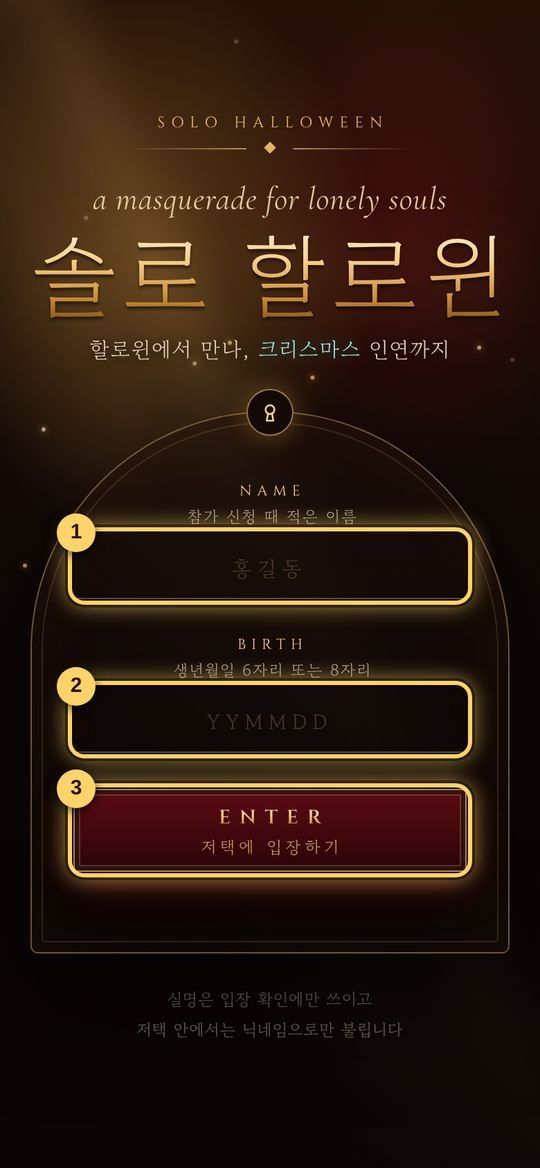
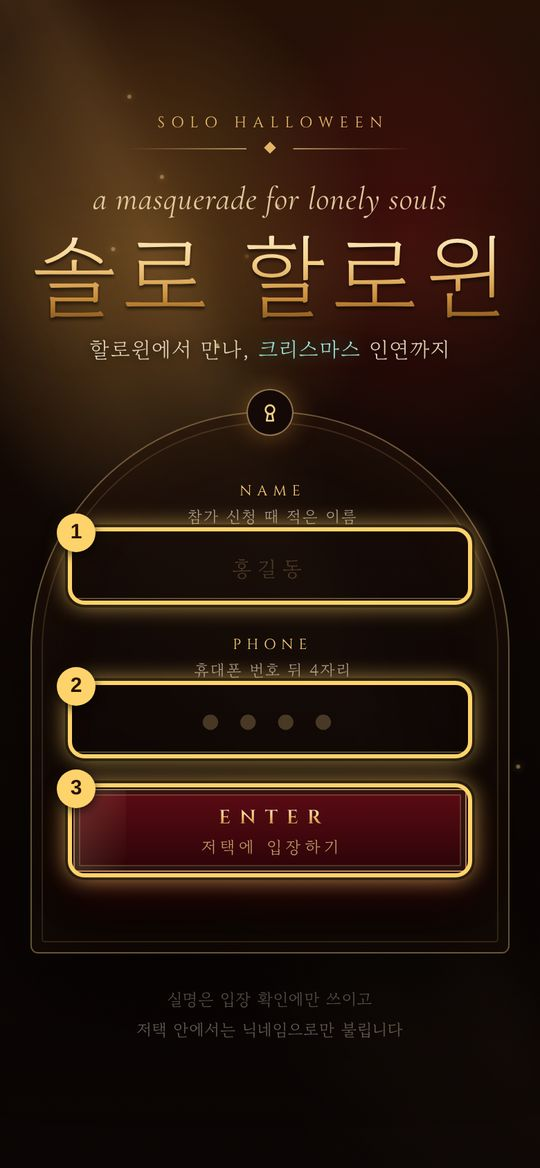
Log in with name + last 4 phone digits; add staff accounts
- Login field is now the last 4 digits of the phone (full number also
  accepted); hashes use a new salt
- Real roster (79 guests + 9 staff) lives in roster.js, loaded when
  present and git-ignored because this repository is public
- Staff accounts (password 9999) open the admin panel without the PIN,
  are marked in the directory and excluded from voting, matching, the
  Secret Room and tallies
- Name tags show the gender number from the sign-up sheet
- Roster builder accepts phone numbers and staff lines
- Docs and login screenshots updated

Claude-Session: https://claude.ai/code/session_01DiasJsvSXDKjZvfeQPBRQE

diff --git a/solo-halloween/index.html b/solo-halloween/index.html
@@ -633,8 +633,8 @@
     <span class="sigil"><svg viewBox="0 0 16 16"><circle cx="8" cy="6" r="3.2" fill="none" stroke="#f6d08a" stroke-width="1.3"/><path d="M6.6 8.6 5.6 14h4.8l-1-5.4" fill="none" stroke="#f6d08a" stroke-width="1.3" stroke-linejoin="round"/></svg></span>
     <label class="lf"><span>NAME<i>참가 신청 때 적은 이름</i></span>
       <input id="lgName" placeholder="홍길동" autocomplete="off" required></label>
-    <label class="lf"><span>BIRTH<i>생년월일 6자리 또는 8자리</i></span>
-      <input id="lgBirth" placeholder="YYMMDD" inputmode="numeric" maxlength="10" autocomplete="off" required></label>
+    <label class="lf"><span>PHONE<i>휴대폰 번호 뒤 4자리</i></span>
+      <input id="lgPin" placeholder="● ● ● ●" inputmode="numeric" maxlength="16" autocomplete="off" required></label>
     <button class="enter" type="submit" id="lgBtn"><b>ENTER</b><small>저택에 입장하기</small></button>
     <p class="err" id="lgErr" role="alert"></p>
   </form>
@@ -703,6 +703,7 @@
 <section id="board" hidden></section>
 <section id="admin" hidden><div class="wrap adm" id="admIn"></div></section>
 
+<script src="roster.js"></script>
 <script>
 /* ════════════════════════════════════════════════════════════
    설정 — 행사 전에 여기만 채우면 됩니다 (README 참고)
@@ -726,16 +727,19 @@ const CONFIG={
   LETTER_MAX:5,    // 박쥐편지: 1인당 보낼 수 있는 통수
   REVEAL_DELAY_MIN:30  // 운명의 실: '종료'를 누르고 몇 분 뒤에 결과 공개
 };
-/* 참가자 명단 — 실명·생년월일은 해시로만 저장됩니다.
-   관리자 화면 › "명단 만들기"에 "이름 생년월일 성별"을 붙여넣으면 이 배열이 생성됩니다. */
-const ROSTER=[
+/* 참가자 명단 — 실명·휴대폰 뒤 4자리는 해시로만 저장됩니다.
+   실제 명단은 같은 폴더의 roster.js(window.ROSTER_LOCAL)에 두고 깃에는 올리지 않습니다(공개 저장소).
+   roster.js가 없으면 아래 데모 계정이 쓰입니다. 관리자 › "명단 만들기"로 새 명단을 만들 수 있어요.
+   {id, g:'m'|'f', n:성별 번호, h:해시} · 운영진은 {id, staff:1, h} */
+const ROSTER=(window.ROSTER_LOCAL&&window.ROSTER_LOCAL.length)?window.ROSTER_LOCAL:[
   /*ROSTER_START*/
[13 lines of base64/hex data omitted]
   /*ROSTER_END*/
 ];
 
@@ -774,13 +778,9 @@ function sha256(ascii){
   return result;
 }
 const normName=s=>String(s||'').replace(/\s+/g,'').trim();
-function normBirth(s){
-  const d=String(s||'').replace(/\D/g,'');
-  if(d.length===8) return d;
-  if(d.length===6){ const yy=+d.slice(0,2); return (yy>=30?'19':'20')+d; }
-  return '';
-}
-const credHash=(name,birth)=>sha256('sh|'+normName(name)+'|'+normBirth(birth));
+// 휴대폰 번호 뒤 4자리. 전체 번호를 넣어도 뒤 4자리만 씀
+function normPin(s){ const d=String(s||'').replace(/\D/g,''); return d.length>=4?d.slice(-4):''; }
+const credHash=(name,pin)=>sha256('sh2|'+normName(name)+'|'+normPin(pin));
 
 /* ════════════════ 저장소 (Firebase REST ↔ 로컬) ════════════════ */
 const Store={
@@ -926,7 +926,9 @@ const nick=id=>prof(id).nick||'이름 없는 영혼';
 const avat=id=>prof(id).av||'🕯';
 const gOf=id=>(person(id)||{}).g;
 const phase=k=>(Store.get('state/'+k)||'wait');
-const souls=()=>roster().filter(p=>prof(p.id).nick);
+const isStaff=id=>!!(person(id)||{}).staff;
+// 참가자(운영진 제외) 중 입장해서 닉네임을 정한 사람
+const souls=()=>roster().filter(p=>!p.staff&&prof(p.id).nick);
 
 /* ════════════════ 부트 ════════════════ */
 (function boot(){
@@ -949,15 +951,15 @@ function route(){
 /* ════════════════ 로그인 ════════════════ */
 $('loginForm').addEventListener('submit',async e=>{
   e.preventDefault();
-  const n=$('lgName').value, b=$('lgBirth').value;
+  const n=$('lgName').value, b=$('lgPin').value;
   if(!normName(n)){ $('lgErr').textContent='이름을 적어주세요.'; return; }
-  if(!normBirth(b)){ $('lgErr').textContent='생년월일은 950315 또는 19950315처럼 숫자로 적어주세요.'; return; }
+  if(!normPin(b)){ $('lgErr').textContent='휴대폰 번호 뒤 4자리를 숫자로 적어주세요.'; return; }
   $('lgBtn').disabled=true; $('lgBtn').querySelector('small').textContent='명단을 확인하는 중…';
   await Store.pull();
   const h=credHash(n,b), p=roster().find(x=>x.h===h);
   $('lgBtn').disabled=false; $('lgBtn').querySelector('small').textContent='저택에 입장하기';
   if(!p){
-    $('lgErr').innerHTML='🎃 명단에 없는 영혼이에요… 이름과 생년월일을 다시 확인해 주세요.<br>계속 안 되면 입구의 운영진에게 말해주세요.';
+    $('lgErr').innerHTML='🎃 명단에 없는 영혼이에요… 이름과 휴대폰 번호 뒤 4자리를 다시 확인해 주세요.<br>계속 안 되면 입구의 운영진에게 말해주세요.';
     $('loginForm').animate([{transform:'translateX(-8px)'},{transform:'translateX(8px)'},{transform:'none'}],{duration:260,iterations:2});
     return;
   }
@@ -1288,7 +1290,7 @@ function checkInbox(first){
 /* ── 로비 ── */
 function renderHome(v){
   const p=prof(ME), mt=MONSTER[p.type];
-  const cs=candyTo(ME), L=lettersTo(ME), sentL=lettersFrom(ME), ps=chatPartners(), num=String(roster().findIndex(x=>x.id===ME)+1).padStart(2,'0');
+  const cs=candyTo(ME), L=lettersTo(ME), sentL=lettersFrom(ME), ps=chatPartners(), num=((person(ME)||{}).g==='f'?'W':'M')+String((person(ME)||{}).n||roster().findIndex(x=>x.id===ME)+1).padStart(2,'0');
   const notes=[], mp=mphase(), pend=cs.filter(id=>!candySent(ME,id));
   const ss=sstate(), sp=secretPartner();
   if(ss.ph==='result'&&sp) notes.push(['🚪','비밀의 방 · '+secretNo()+'번 커플',''+esc(nick(sp))+'님과 '+secretNo()+'번 자리로 · 안쪽부터 1번','secret']);
@@ -1303,7 +1305,7 @@ function renderHome(v){
     clockHTML()+themeHTML()+
     guide('jack',greet())+
     notes.map(n=>'<div class="notice" data-go="'+n[3]+'"><span class="ic">'+n[0]+'</span><div><b>'+n[1]+'</b><span>'+n[2]+'</span></div></div>').join('')+
-    '<div class="tag"><span class="hole">No.'+num+'</span><div class="lab">Soul Name Tag</div>'+
+    '<div class="tag"><span class="hole">'+(isStaff(ME)?'🛠 STAFF':'No.'+num)+'</span><div class="lab">Soul Name Tag</div>'+
       '<div class="row"><div class="big">'+esc(avat(ME))+'</div><div style="min-width:0"><div class="nk">'+esc(nick(ME))+'</div><div class="cs">'+(p.cos?'🎭 '+esc(p.cos):'코스튬 한 줄을 적어보세요')+'</div></div></div>'+
       '<div class="badges">'+(mt?'<span class="pill red">'+mt.e+' '+mt.n+'</span>':'<span class="pill" data-go-room="quiz" style="cursor:pointer">❔ 몬스터 유형 미정 · 테스트하기</span>')+
       (p.insta?'<span class="pill teal">📷 @'+esc(p.insta)+'</span>':'<span class="pill red" id="noIg" style="cursor:pointer">📷 인스타 미등록 · 편지 교환용</span>')+'</div>'+
@@ -1357,10 +1359,10 @@ $('tpill').onclick=()=>go('home');
 /* ── 영혼 도감 ── */
 let soulFilter='all', soulQ='';
 function renderSouls(v){
-  const all=roster(), m=all.filter(p=>p.g==='m').length, f=all.length-m, inM=souls().filter(p=>p.g==='m').length, inF=souls().length-inM;
-  const list=all.filter(p=>soulFilter==='all'||p.g===soulFilter)
+  const all=roster().filter(p=>!p.staff), m=all.filter(p=>p.g==='m').length, f=all.length-m, inM=souls().filter(p=>p.g==='m').length, inF=souls().length-inM;
+  const list=roster().filter(p=>soulFilter==='all'||p.g===soulFilter)
     .filter(p=>!soulQ||nick(p.id).toLowerCase().includes(soulQ.toLowerCase())||(prof(p.id).cos||'').includes(soulQ))
-    .sort((a,b)=>(!!prof(b.id).nick)-(!!prof(a.id).nick)||(prof(b.id).at||0)-(prof(a.id).at||0));
+    .sort((a,b)=>(!!a.staff)-(!!b.staff)||(!!prof(b.id).nick)-(!!prof(a.id).nick)||(prof(b.id).at||0)-(prof(a.id).at||0));
   const sentC=candyFrom(ME), sentL=lettersFrom(ME);
   v.innerHTML=head('Halloween','영혼 도감','Who\'s Here')+
     guide('pipi','카드를 누르면 배달해줄게! <b>🍬 사탕</b>은 네 닉네임이 보이고, <b>🦇 편지</b>는 익명이지만 서로의 인스타가 공유돼. 남은 사탕 <b>'+Math.max(0,candyLeft())+'</b>개, 편지 <b>'+(CONFIG.LETTER_MAX-sentL.length)+'</b>통!')+
@@ -1371,7 +1373,7 @@ function renderSouls(v){
     '<div class="grid">'+list.map((p,i)=>{
       const pr=prof(p.id), on=!!pr.nick, mt=MONSTER[pr.type];
       return '<button class="soul'+(p.id===ME?' me':'')+(on?'':' ghosty')+'" data-id="'+p.id+'" style="animation-delay:'+Math.min(i*30,400)+'ms" '+(on?'':'disabled')+'>'+
-        '<i class="sx" style="background:'+(p.g==='m'?'#e0483f':'var(--teal)')+'"></i>'+
+        (p.staff?'<span class="mk" style="left:8px;right:auto">🛠</span>':'<i class="sx" style="background:'+(p.g==='m'?'#e0483f':'var(--teal)')+'"></i>')+
         (p.id!==ME&&chatOpen(p.id)?'<span class="mk">💬</span>':sentC.includes(p.id)?'<span class="mk">🍬</span>':candySent(p.id,ME)?'<span class="mk">🎁</span>':'')+
         '<div class="e">'+(on?esc(pr.av||'🎃'):'🕯')+'</div><div class="n">'+(on?esc(pr.nick):'아직 오는 중…')+'</div>'+
         '<div class="c">'+(on?(pr.cos?esc(pr.cos):(mt?mt.e+' '+mt.n:'&nbsp;')):'&nbsp;')+'</div></button>';
@@ -1391,7 +1393,7 @@ function openSoul(id){
   else candyBtn='<button class="btn gold" id="sCandy" '+(left<=0?'disabled':'')+'>🍬 사탕 건네기 · '+Math.max(0,left)+'개 남음</button><p class="muted" style="text-align:center;font-size:12px">사탕엔 내 닉네임이 적혀 가요. 상대가 돌려주면 밀담방이 열려요.</p>';
   openSheet('<div class="prof-top"><div class="e">'+esc(p.av||'🎃')+'</div><div class="n">'+esc(p.nick)+'</div><div class="c">'+(p.cos?'🎭 '+esc(p.cos):'')+'</div>'+
     (mt?'<p style="margin:10px 0 0"><span class="pill red">'+mt.e+' '+mt.n+'</span></p><p class="muted" style="margin-top:6px;font-size:12.5px">'+mt.d+'</p>':'')+'</div>'+
-    (mine?'<p class="muted" style="text-align:center;margin-top:14px">나야 나! 🎃</p>':
+    (mine?'<p class="muted" style="text-align:center;margin-top:14px">나야 나! 🎃</p>':(isStaff(id)||isStaff(ME))?'<p class="muted" style="text-align:center;margin-top:14px">'+(isStaff(id)?'🛠 저택 운영진이에요. 궁금한 건 언제든 물어보세요!':'🛠 운영진 계정은 사탕 · 편지 · 지목에 참여하지 않아요.')+'</p>':
     '<div class="acts">'+candyBtn+
       (sentL.includes(id)?'<p class="muted" style="text-align:center">🦇 편지를 보냈어요 · 상대의 인스타 '+instaLink(id)+'</p>':
         (sentL.length>=CONFIG.LETTER_MAX?'<p class="muted" style="text-align:center">편지를 모두 보냈어요</p>':
@@ -1455,6 +1457,7 @@ function paintChat(force){
 function myVote(){ const v=Store.get('votes/'+ME)||{}; return {m:v.m,f:v.f,done:!!(v.m&&v.f)}; }
 let voteG='m';
 function renderVote(v){
+  if(isStaff(ME)) return staffNote(v,'베스트 드레서','The Vampire Gift','lucian');
   const ph=phase('vote');
   let html=head('Halloween','베스트 드레서','The Vampire Gift');
   if(ph==='wait'){
@@ -1504,6 +1507,7 @@ function podium(list){
     return '<div class="pod '+cls+'">'+(cls==='p1'?'<span class="crown">👑</span>':'')+'<div class="e">'+esc(avat(x.id))+'</div><div class="n">'+esc(nick(x.id))+'</div><div class="blk">'+(cls==='p1'?1:cls==='p2'?2:3)+'</div><div class="votes">'+x.n+'표</div></div>'; }).join('')+'</div>';
 }
 
+function staffNote(v,kr,en,c){ v.innerHTML=head('Halloween',kr,en)+guide(c,'🛠 <b>운영진 계정</b>은 투표와 지목에 참여하지 않아요. 진행은 로고를 5번 눌러 <b>관리자 화면</b>에서 하세요. (운영진은 PIN 없이 열려요)'); mountGuides(v); }
 /* ── 운명의 실 (매칭) ──
    마음에 드는 이성 3명을 순위 없이 고름. 서로 고르면 매칭이고, 한 사람이 여러 명과 매칭될 수 있음.
    운영진이 '종료'를 누르면 REVEAL_DELAY_MIN분 뒤 자동 공개: 받은 표 수 + 매칭된 상대 */
@@ -1518,6 +1522,7 @@ function mphase(){ const st=phase('match'); if(st==='ended') return Date.now()>=
 const revealLeft=()=>Math.max(0,((Store.get('state/revealAt')||0)-Date.now())/1000);
 let revealing=false;
 function renderMatch(v){
+  if(isStaff(ME)) return staffNote(v,'운명의 실','Red String of Fate','boo');
   const ph=mphase();
   let html=head('Halloween','운명의 실','Red String of Fate');
   const rules='<div class="panel"><h3>🩸 이렇게 이어져요</h3><p class="muted">① 마음에 드는 이성을 <b>'+CONFIG.PICKS_MAX+'명</b>까지 고르세요. <b>순위는 없어요.</b><br>② <b>서로가 서로를 고르면</b> 매칭! 여러 명과 동시에 매칭될 수도 있어요.<br>③ 결과는 바로 나오지 않고 <b>파티 종료 '+CONFIG.REVEAL_DELAY_MIN+'분 뒤</b> 공개돼요.<br>④ 공개되면 <b>내가 받은 표 수</b>와 <b>매칭된 상대</b>를 볼 수 있어요.<br>⑤ 매칭된 상대와는 <b>💬 밀담방</b>이 열려요.</p></div>';
@@ -1971,7 +1976,7 @@ function secretTick(){
     if(st.ph!=='none'&&prev!==null){ try{ navigator.vibrate&&navigator.vibrate([250,120,250]); }catch(e){} }
     if(st.ph==='none'){ ov.hidden=true; stopSvid(); }
     else if(st.ph==='result'&&LS.get(K('sclose:'+st.S.id+':'+ME))){ ov.hidden=true; }
-    else if($('admin').hidden&&(prev!==null||st.ph!=='result')) openSecret();
+    else if($('admin').hidden&&!isStaff(ME)&&(prev!==null||st.ph!=='result')) openSecret();
     if(TAB==='home') renderTab();
   }
   if(!ov.hidden){
@@ -2103,6 +2108,7 @@ let brandTaps=0, brandT=0;
 $('brand').onclick=()=>{ brandTaps++; clearTimeout(brandT); brandT=setTimeout(()=>brandTaps=0,1500); if(brandTaps>=5){ brandTaps=0; openAdmin(); } };
 let admOK=false;
 function openAdmin(){
+  if(ME&&isStaff(ME)) admOK=true;   // 운영진 계정은 PIN 없이
   if(!admOK){ const pin=prompt('🔒 운영진 PIN'); if(pin!==CONFIG.ADMIN_PIN){ if(pin!=null) alert('PIN이 달라요'); return; } admOK=true; }
   $('admin').hidden=false; document.body.style.overflow='hidden'; renderAdmin();
   Store.listeners.push(admTick);
@@ -2136,7 +2142,7 @@ function renderAdmin(){
       '<div class="wheel-wrap"><span class="pin">🔻</span><canvas id="wheel" width="600" height="600"></canvas></div><button class="btn gold" id="spin">🎡 돌리기</button><p class="muted" id="wres" style="text-align:center;margin-top:8px"></p></div>'+
     '<div class="panel"><h3>🍷 테이블 나누기 <small>남녀 섞어서</small></h3><div class="row2"><input class="inp" id="tN" type="number" min="2" max="20" value="4"><button class="btn small" id="tGo">나누기</button></div><div id="tOut" style="margin-top:10px"></div></div>'+
     '<div class="panel"><h3>📸 인스타 태그 <small>태그 동의한 영혼</small></h3><textarea readonly id="tagList">'+esc(S.filter(p=>prof(p.id).tagok&&prof(p.id).insta).map(p=>'@'+prof(p.id).insta).join(' '))+'</textarea><div class="btnrow"><button class="btn ghost small" id="cpTag">@아이디 복사</button></div></div>'+
-    '<div class="panel"><h3>📜 명단 만들기</h3><p class="muted">한 줄에 한 명: <code>이름 생년월일 성별</code> (예: <code>홍길동 950315 남</code>)<br>실명·생년월일은 이 기기에서 해시로만 변환돼요.</p>'+
+    '<div class="panel"><h3>📜 명단 만들기</h3><p class="muted">한 줄에 한 명: <code>이름 휴대폰번호 성별</code> (예: <code>홍길동 010-1234-5678 남</code>, 뒤 4자리만 써도 돼요) · 운영진은 <code>이름 운영진</code> (비밀번호 9999)<br>실명·생년월일은 이 기기에서 해시로만 변환돼요.</p>'+
       '<textarea id="rIn" placeholder="홍길동 950315 남&#10;김영희 19970822 여"></textarea>'+
       '<div class="btnrow"><button class="btn small" id="rGen">변환하기</button><button class="btn gold small" id="rUp" '+(Store.remote?'':'')+'>서버 명단으로 올리기</button></div><textarea id="rOut" readonly style="margin-top:8px;min-height:80px" placeholder="index.html의 ROSTER에 붙여넣을 코드"></textarea><p class="muted" id="rMsg"></p>'+
       '<p class="muted" style="font-size:11.5px">현재 명단: '+R.length+'명 ('+(Store.get('roster')?'서버 명단':'파일 내장 명단')+')</p></div>'+
@@ -2159,23 +2165,25 @@ function renderAdmin(){
   document.querySelectorAll('[data-wf]').forEach(b=>b.onclick=()=>{ wf=b.dataset.wf; renderAdmin(); });
   drawWheel(0); $('spin').onclick=spinWheel;
   $('tGo').onclick=()=>splitTables(+$('tN').value||4);
-  $('rGen').onclick=()=>{ const r=parseRoster($('rIn').value); if(!r) return; $('rOut').value=r.map(x=>'  {id:"'+x.id+'",g:"'+x.g+'",h:"'+x.h+'"},').join('\n'); $('rMsg').textContent=r.length+'명 변환 완료'; };
+  $('rGen').onclick=()=>{ const r=parseRoster($('rIn').value); if(!r) return; $('rOut').value='window.ROSTER_LOCAL=[\n'+r.map(x=>'  '+JSON.stringify(x)+',').join('\n')+'\n];'; $('rMsg').textContent=r.length+'명 변환 완료'; };
   $('rUp').onclick=async()=>{ const r=parseRoster($('rIn').value); if(!r) return; if(!confirm(r.length+'명으로 서버 명단을 교체할까요? (기존 프로필 id는 순서대로 p01, p02… 로 매겨져요)')) return; await Store.put('roster',r); $('rMsg').textContent='서버 명단 '+r.length+'명 저장 완료'; renderAdmin(); };
   $('rsVote').onclick=async()=>{ if(confirm('모든 투표를 지울까요?')){ await Store.put('votes',null); await Store.put('results/vote',null); renderAdmin(); } };
   $('rsPick').onclick=async()=>{ if(confirm('모든 운명의 실 선택을 지울까요?')){ await Store.put('picks',null); await Store.put('results/match',null); renderAdmin(); } };
   $('rsAll').onclick=async()=>{ if(prompt('정말 전체 삭제하려면 "삭제"라고 입력')==='삭제'){ for(const k of ['profiles','votes','picks','candy','letters','chats','results','state','timer','secret','spicks','shist']) await Store.put(k,null); renderAdmin(); } };
 }
 function parseRoster(text){
-  const out=[], bad=[];
-  text.split(/\n/).map(s=>s.trim()).filter(Boolean).forEach((line,i)=>{
+  const out=[], bad=[]; let nm=0, nf=0, ns=0;
+  text.split(/\n/).map(s=>s.trim()).filter(Boolean).forEach(line=>{
     const parts=line.split(/[\s,\t\/]+/).filter(Boolean);
+    const si=parts.findIndex(x=>/^(운영진|스탭|스태프|staff)$/i.test(x));
+    if(si>=0){ const name=parts.filter((_,k)=>k!==si).join(''); if(!name){ bad.push(line); return; }
+      out.push({id:'s'+String(++ns).padStart(2,'0'),staff:1,h:credHash(name,'9999')}); return; }
     const gi=parts.findIndex(x=>/^(남|여|남자|여자|m|f|M|F)$/.test(x));
-    const bi=parts.findIndex(x=>/^\d{6}$|^\d{8}$|^\d{4}[.\-]\d{1,2}[.\-]\d{1,2}$/.test(x));
-    if(gi<0||bi<0){ bad.push(line); return; }
-    let b=parts[bi]; if(/[.\-]/.test(b)){ const [y,m,d]=b.split(/[.\-]/); b=y+m.padStart(2,'0')+d.padStart(2,'0'); }
-    const name=parts.filter((_,k)=>k!==gi&&k!==bi).join('');
+    const pi=parts.findIndex(x=>/\d{4}/.test(x)&&x.replace(/\D/g,'').length>=4);
+    if(gi<0||pi<0){ bad.push(line); return; }
+    const name=parts.filter((_,k)=>k!==gi&&k!==pi).join('');
     const g=/^(남|남자|m|M)$/.test(parts[gi])?'m':'f';
-    out.push({id:'p'+String(out.length+1).padStart(2,'0'),g,h:credHash(name,b)});
+    out.push({id:'p'+String(out.filter(x=>!x.staff).length+1).padStart(2,'0'),g,n:g==='m'?++nm:++nf,h:credHash(name,parts[pi])});
   });
   if(bad.length){ $('rMsg').textContent='형식 확인 필요: '+bad.join(' / '); if(!out.length) return null; }
   return out;

diff --git a/solo-halloween/guidebook.html b/solo-halloween/guidebook.html
@@ -169,9 +169,9 @@ const GLANCE=[
 const BOOK=[
  {id:'prep',no:'00',title:'행사 전 준비',host:['🎃','잭'],lead:'행사 전날까지 딱 네 가지만 해두면 됩니다. 사이트 주소를 정하고, 실시간 저장소를 연결하고, 명단을 넣고, 리허설을 하는 것입니다.',
   steps:[
-   {img:'92-roster',who:'staff',sub:'STEP 1',title:'참가자 명단 올리기',desc:'관리자 화면 맨 아래 <b>📜 명단 만들기</b>에서 합니다. 엑셀 명단을 그대로 복사해서 붙여넣어도 돼요.',
-    marks:['한 줄에 한 명씩 <b>이름 생년월일 성별</b>을 붙여넣습니다. 예: <span class="k">홍길동 950315 남</span>, <span class="k">김영희 1997.08.22 여</span>','<b>서버 명단으로 올리기</b>를 누르면 바로 반영되고, 파일을 고칠 필요가 없습니다.'],
-    tip:'실명과 생년월일은 이 폰 안에서 암호처럼 바뀌어 저장되고, 원본은 어디에도 올라가지 않아요. 지금 들어 있는 <b>테스트일~테스트육</b> 계정은 이 작업을 하면 사라집니다.'},
+   {img:'92-roster',who:'staff',sub:'STEP 1',title:'참가자 명단 확인',desc:'관리자 화면 맨 아래 <b>📜 명단 만들기</b>에서 합니다. 엑셀 명단을 그대로 복사해서 붙여넣어도 돼요.',
+    marks:['<b>최종 명단(참가자 79명 + 운영진 9명)은 이미 들어 있어요.</b> 사이트 폴더의 <span class="k">roster.js</span> 파일이에요. 넷리파이에 올릴 때 꼭 같이 올리세요.','명단이 바뀌면 여기에 한 줄에 한 명씩 <b>이름 휴대폰번호 성별</b>(예: <span class="k">홍길동 010-1234-5678 남</span>), 운영진은 <span class="k">홍길동 운영진</span>을 붙여넣고 <b>서버 명단으로 올리기</b>를 누르면 바로 반영돼요.'],
+    tip:'실명과 휴대폰 뒤 4자리는 암호처럼 바뀌어 저장되고, 원본은 어디에도 올라가지 않아요. 저장소(GitHub)에는 명단 파일을 올리지 않도록 막아두었어요.'},
   ],
   table:{head:['순서','할 일','어디서'],rows:[
    ['1','Firebase Realtime Database를 만들고(테스트 모드) 주소를 받아요','firebase.google.com'],
@@ -180,12 +180,12 @@ const BOOK=[
    ['4','위 STEP 1처럼 실제 명단을 서버에 올려요','관리자 › 📜 명단 만들기'],
    ['5','폰 2대로 리허설해요: 로그인 → 사탕 주고받기 → 밀담 → 라운드 시작과 종','현장 와이파이에서']]}},
 
- {id:'enter',no:'01',title:'참가자 입장',host:['🎃','잭'],lead:'참가자는 QR로 사이트에 들어와 <b>이름과 생년월일</b>로 로그인합니다. <b>처음 한 번만</b> 영상과 캐릭터 소개가 나오고, 그다음부터는 바로 로비로 들어갑니다.',
+ {id:'enter',no:'01',title:'참가자 입장',host:['🎃','잭'],lead:'참가자는 QR로 사이트에 들어와 <b>이름과 휴대폰 번호 뒤 4자리</b>로 로그인합니다. 운영진은 이름과 <b>9999</b>로 들어와요. <b>처음 한 번만</b> 영상과 캐릭터 소개가 나오고, 그다음부터는 바로 로비로 들어갑니다.',
   steps:[
-   {img:'01-login',who:'guest',sub:'STEP 1',title:'이름과 생년월일로 입장',marks:['신청서에 적은 <b>이름</b>을 입력해요. 띄어쓰기는 무시돼요.','<b>생년월일</b>은 6자리(950315)나 8자리(19950315) 모두 돼요.','<b>ENTER</b>를 누르면 저택 문이 열려요.'],
-    say:'“QR 찍고 이름이랑 생년월일만 넣으면 돼요. 소리 켜고 들어가 보세요!”'},
+   {img:'01-login',who:'guest',sub:'STEP 1',title:'이름과 휴대폰 번호 뒤 4자리로 입장',marks:['신청서에 적은 <b>이름</b>을 입력해요. 띄어쓰기는 무시돼요.','<b>휴대폰 번호 뒤 4자리</b>를 넣어요. 번호 전체(010-1234-5678)를 넣어도 알아서 뒤 4자리만 써요.','<b>ENTER</b>를 누르면 저택 문이 열려요.'],
+    say:'“QR 찍고 이름이랑 휴대폰 번호 뒤 4자리만 넣으면 돼요. 소리 켜고 들어가 보세요!”'},
    {img:'02-login-error',who:'guest',flip:1,sub:'STEP 1-1',title:'명단에 없다고 나올 때',marks:['명단에 없거나 오타가 있으면 이 안내가 나와요.'],
-    tip:'신청서의 이름 표기(예: 영문 이름, 개명)와 생년월일을 확인해 주세요. 명단은 관리자 화면에서 언제든 다시 올릴 수 있어요.'},
+    tip:'신청서의 이름 표기와 휴대폰 번호(번호를 바꿨는지)를 확인해 주세요. 명단은 관리자 화면에서 언제든 다시 올릴 수 있어요.'},
    {img:'03-gate',who:'guest',sub:'STEP 2',title:'촛불을 눌러 문 열기',marks:['촛불을 누르면 힉스필드로 만든 <b>오프닝 영상</b>이 소리와 함께 재생돼요.'],
     tip:'폰은 화면을 눌러야 소리를 켜줘서 이 단계를 두었어요. <b>아이폰 무음 스위치</b>가 켜져 있으면 소리가 나지 않아요.'},
    {img:'05-intro-title',who:'guest',flip:1,sub:'STEP 3',title:'“솔로 할로윈” 타이틀',desc:'영상 위로 “쉿… 방금, 문이 열렸어” 같은 환영 문구가 뜨고, 마지막에 타이틀이 지지직 나타나요. 오른쪽 위 <b>건너뛰기</b>로 넘길 수도 있어요.'},
@@ -202,7 +202,7 @@ const BOOK=[
 
  {id:'round',no:'02',title:'로테이션 라운드 진행',host:['🎃','잭'],lead:'현장 상황에 따라 시간이 달라질 수 있어서, 시계는 <b>운영진이 버튼을 누르는 순간</b> 시작돼요. 대화 8분이 끝나면 모두의 폰에 종이 울리고, 이동 2분은 자동으로 흘러요.',
   steps:[
-   {img:'20-admin-top',who:'staff',sub:'STEP 1',title:'관리자 화면 열기',desc:'사이트 상단의 <b>“Halloween 솔로할로윈” 로고를 5번 빠르게</b> 누르고 PIN을 입력해요. 주소 뒤에 <span class="k">#admin</span>을 붙여도 돼요.',
+   {img:'20-admin-top',who:'staff',sub:'STEP 1',title:'관리자 화면 열기',desc:'사이트 상단의 <b>“Halloween 솔로할로윈” 로고를 5번 빠르게</b> 누르고 PIN을 입력해요. <b>운영진 계정(이름 + 9999)으로 로그인하면 PIN 없이 바로 열려요.</b> 주소 뒤에 <span class="k">#admin</span>을 붙여도 돼요.',
     marks:['이 가이드북과 한 장 요약본을 여는 버튼이에요.','지금 시계 상태가 실시간으로 보여요.']},
    {img:'21-admin-round',who:'staff',flip:1,sub:'STEP 2',title:'라운드 진행 버튼',marks:['라운드 번호를 −/+로 맞춰요(보통 자동으로 다음 번호가 돼요).','<b>▶ ROUND N 시작</b>: 모두의 폰에 라운드 타이틀이 뜨고 8분이 흘러요.','<b>⏸ 일시정지 / +1분 / −1분</b>: 현장 상황에 맞춰 조절해요.','<b>⏭ 지금 종 울리기</b>: 대화를 바로 끝내고 이동 시간으로 넘어가요.','<b>☕ 숨 고르기 3분</b>: 5라운드가 끝나고 눌러요.','<b>🕯 자유 시간</b>: 10라운드와 정리가 끝나면 눌러요.'],
     tip:'대화 시간과 이동 시간은 이 화면 아래에서 바꿀 수 있어요(기본 8분/2분). 관리자 화면을 보고 있는 동안에는 운영진 폰에 타이틀 카드가 뜨지 않아요.'},
@@ -308,9 +308,10 @@ const BOOK=[
    ['23:10','발표','베스트 드레서 <span class="k">발표</span> (운명의 실은 아직 공개하지 않아요)'],
    ['23:20~','마무리 · 2차','운명의 실 <span class="k">종료</span> → 30분 뒤 자동 공개']]}},
 ];
-const CHECK=['Firebase 주소(DB_URL)와 운영진 PIN을 넣었다','실제 명단을 서버에 올렸고, 테스트 계정으로는 로그인되지 않는다','넷리파이에 모든 파일(index.html, guide-img 폴더, intro.mp4, secret.mp4 포함)을 올렸다','폰 2대로 사탕 → 돌려주기 → 밀담 대화를 해봤다','라운드 시작 → 종 → 이동 → 다음 라운드를 한 번 돌려봤다','입장 QR 코드와 이 가이드북(또는 한 장 요약본)을 출력했다','행사가 끝나면 Firebase 데이터를 지우기로 했다'];
+const CHECK=['Firebase 주소(DB_URL)와 운영진 PIN을 넣었다','roster.js를 함께 올렸고, 실제 참가자 이름 + 번호 뒤 4자리로 로그인된다','넷리파이에 모든 파일(index.html, roster.js, guide-img 폴더, intro.mp4, secret.mp4 포함)을 올렸다','폰 2대로 사탕 → 돌려주기 → 밀담 대화를 해봤다','라운드 시작 → 종 → 이동 → 다음 라운드를 한 번 돌려봤다','입장 QR 코드와 이 가이드북(또는 한 장 요약본)을 출력했다','행사가 끝나면 Firebase 데이터를 지우기로 했다'];
 const FAQ=[
- ['참가자가 로그인이 안 된대요.','명단의 이름 표기와 생년월일을 확인해 주세요. 띄어쓰기는 무시돼요. 고친 명단은 관리자 › 📜 명단 만들기에서 다시 올리면 바로 반영돼요.'],
+ ['운영진은 어떻게 들어가나요?','운영진 9명은 <b>이름 + 9999</b>로 로그인해요. 운영진 계정은 투표·지목·사탕에 참여하지 않고, 도감에 🛠로 표시되며, 관리자 화면이 PIN 없이 열려요.'],
+ ['참가자가 로그인이 안 된대요.','명단의 이름 표기와 휴대폰 번호 뒤 4자리를 확인해 주세요. 띄어쓰기는 무시돼요. 고친 명단은 관리자 › 📜 명단 만들기에서 다시 올리면 바로 반영돼요.'],
  ['인트로 영상을 다시 보고 싶대요.','오른쪽 위 닉네임 → 🎬 인트로 다시 보기를 누르면 돼요. 규칙 설명만 다시 들으려면 로비의 📜 저택의 규칙을 누르세요.'],
  ['소리가 안 나요.','아이폰 무음 스위치를 확인하고, 대화 화면 오른쪽 위 🔊가 켜져 있는지 확인해 주세요.'],
  ['시계가 사람마다 조금 달라요.','폰의 날짜·시간 자동 설정이 꺼져 있으면 몇 초 차이가 날 수 있어요. 자동 설정을 켜게 안내해 주세요.'],

diff --git a/solo-halloween/guide.html b/solo-halloween/guide.html
@@ -70,7 +70,7 @@
 <div class="page">
   <header>
     <div><div class="ey">SOLO HALLOWEEN · STAFF ONLY</div><h1>솔로 할로윈 운영진 가이드</h1></div>
-    <div class="hd-r">관리자 화면: 로고 <b>5번 연속 탭</b> 또는 주소 뒤 <b>#admin</b> → PIN<br>참가자 로그인: <b>이름 + 생년월일</b>(6자리 또는 8자리) → 이후 <b>닉네임</b>으로만 활동</div>
+    <div class="hd-r">관리자 화면: 로고 <b>5번 연속 탭</b> 또는 주소 뒤 <b>#admin</b> → PIN<br>참가자 로그인: <b>이름 + 휴대폰 뒤 4자리</b> · 운영진: <b>이름 + 9999</b>(관리자 PIN 없이 열림) → 이후 <b>닉네임</b>으로만 활동</div>
   </header>
 
   <div class="grid">
@@ -160,7 +160,7 @@
         <li><b>🎡 경품 룰렛</b>: 전체, 남, 여, 미매칭 중 대상을 골라 추첨합니다.</li>
         <li><b>🍷 테이블 나누기</b>: 남녀를 섞어 N개 테이블로 나눕니다(참고용).</li>
         <li><b>📸 인스타 태그</b>: 태그에 동의한 사람의 @아이디를 한 번에 복사합니다.</li>
-        <li><b>📜 명단 만들기</b>: "이름 생년월일 성별"을 붙여넣고 서버에 올립니다.</li>
+        <li><b>📜 명단 만들기</b>: 명단은 roster.js에 들어 있어요. 바뀌면 "이름 휴대폰번호 성별"을 붙여넣고 서버에 올립니다.</li>
         <li><b>🧹 초기화</b>: 투표, 운명의 실, 전체 데이터를 지웁니다.</li>
       </ul>
     </section>
@@ -179,7 +179,7 @@
     <section class="card">
       <h2>🆘 이럴 땐</h2>
       <ul>
-        <li><b>로그인이 안 됨</b>: 명단의 이름과 생년월일 표기를 확인합니다(공백은 무시됩니다).</li>
+        <li><b>로그인이 안 됨</b>: 명단의 이름과 휴대폰 뒤 4자리를 확인합니다(공백·하이픈은 무시됩니다).</li>
         <li><b>인트로를 다시 보고 싶음</b>: 닉네임 → 🎬 인트로 다시 보기.</li>
         <li><b>시계가 안 맞음</b>: 폰의 자동 시간 설정을 켜게 합니다.</li>
         <li><b>소리가 안 남</b>: 아이폰 무음 스위치를 확인하고, 대화 화면 🔊 버튼을 켭니다.</li>
@@ -189,7 +189,7 @@
     <section class="card">
       <h2>🔒 개인정보 · 데이터</h2>
       <ul>
-        <li>실명과 생년월일은 <b>해시</b>로만 저장되고, 화면에는 닉네임만 보입니다.</li>
+        <li>실명과 휴대폰 뒤 4자리는 <b>해시</b>로만 저장되고, 화면에는 닉네임만 보입니다.</li>
         <li>"익명"은 <b>참가자 화면에서만</b> 익명입니다. 운영 DB에는 보낸 사람이 기록됩니다.</li>
         <li>밀담방 대화도 DB에 남습니다. 행사가 끝나면 <b>Firebase 데이터를 삭제</b>해 주세요.</li>
       </ul>
